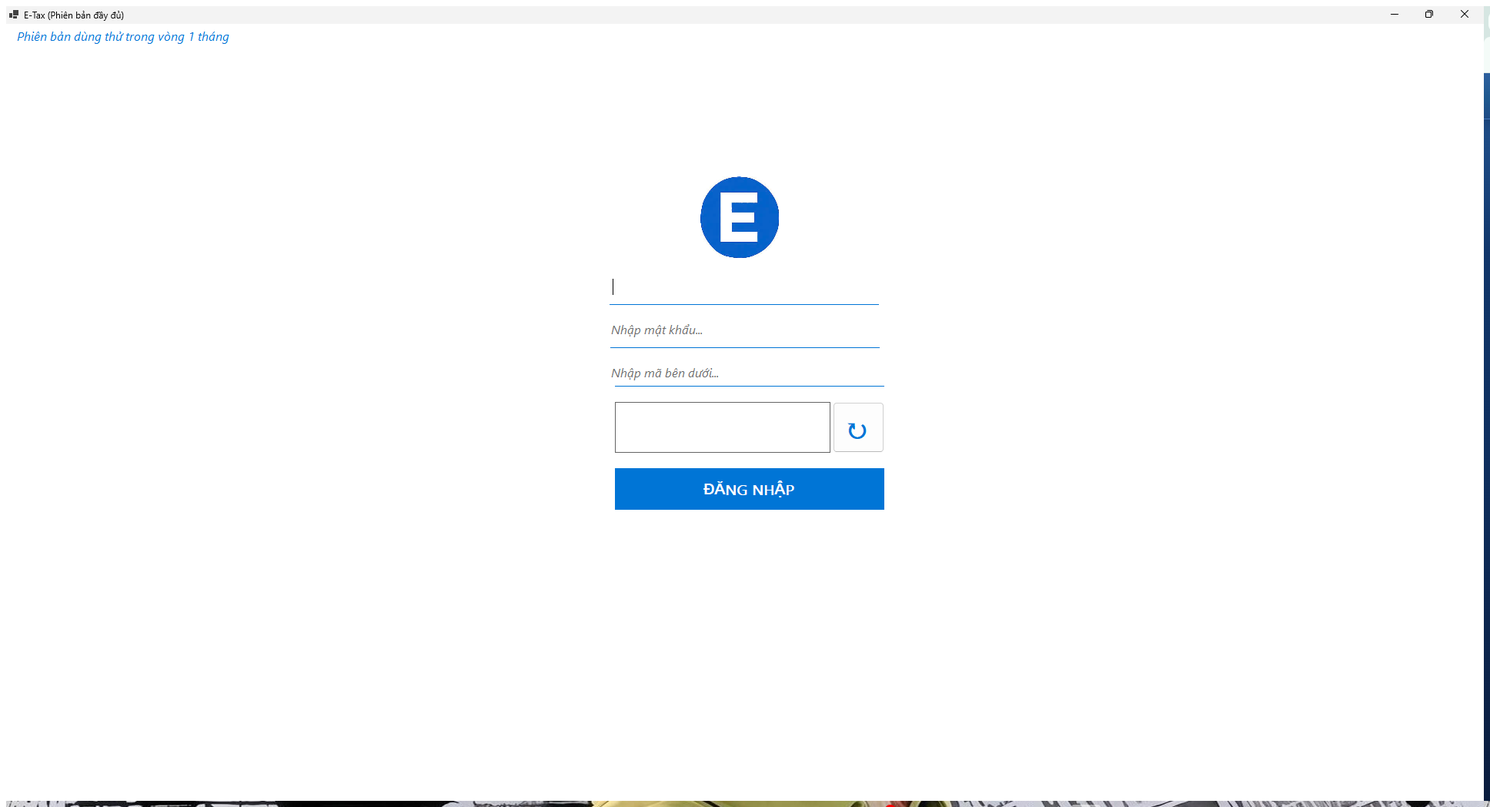
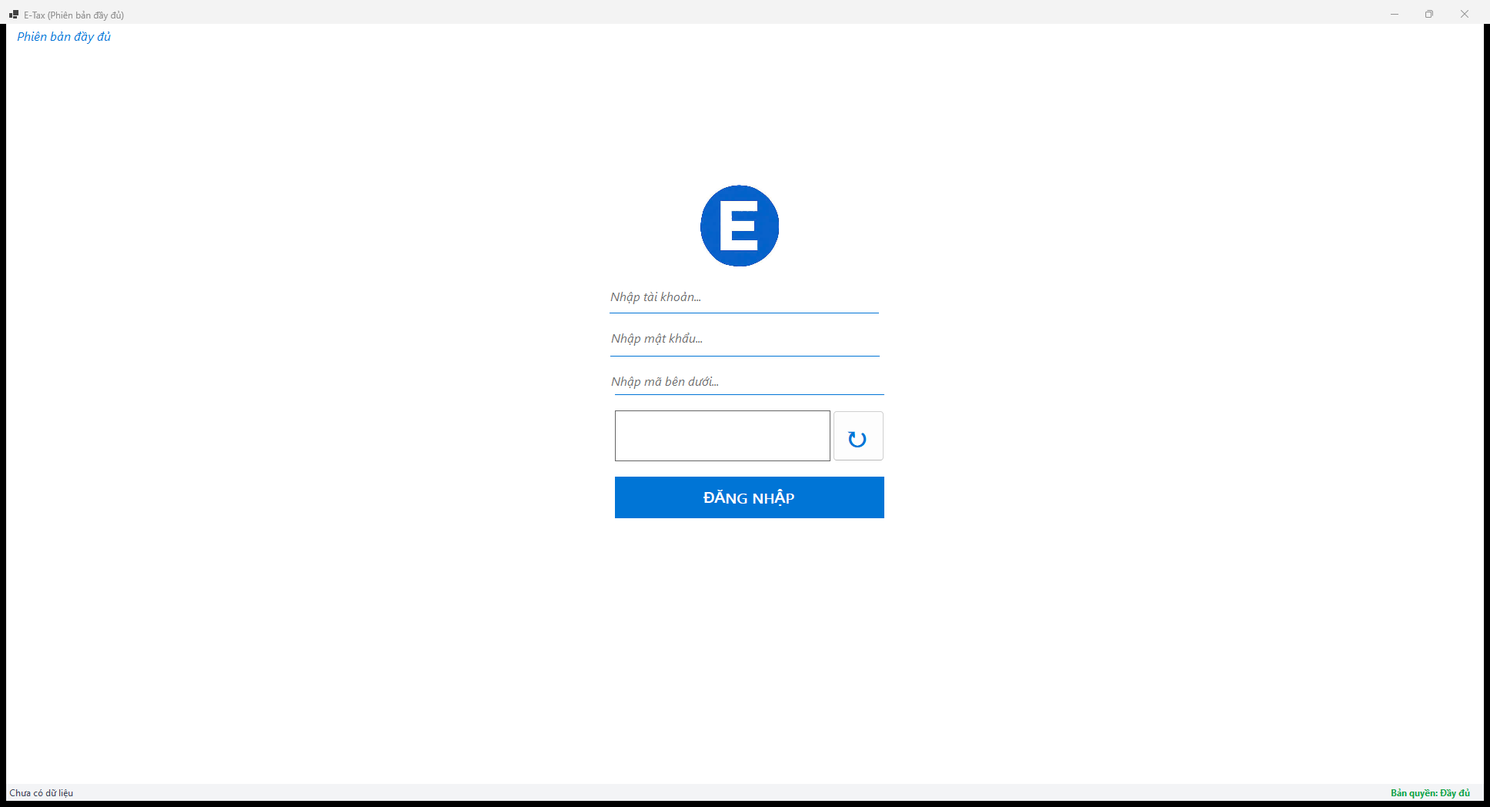
fix(ui): cửa sổ vừa màn 1366x768, khôi phục giữ thanh tiêu đề, thanh trạng thái theo bộ lọc; tài liệu — T-001.6

diff --git a/docs/features/giao-dien/hien-dai-hoa/index.html b/docs/features/giao-dien/hien-dai-hoa/index.html
@@ -84,7 +84,7 @@
   <h1>Hiện đại hóa giao diện</h1>
   <div class="meta">
     <span>Module: <code>giao-dien</code></span>
-    <span>Trạng thái: <span class="badge s-doing">🟡 IN_PROGRESS</span></span>
+    <span>Trạng thái: <span class="badge s-done">✅ DONE</span></span>
     <span>Yêu cầu: CR-001 (đang làm)</span>
     <span>Cập nhật: 2026-11-16 13:45</span>
   </div>
@@ -156,7 +156,7 @@
           <tr><td>Nhớ cửa sổ</td><td>Vị trí, kích thước, phóng to lưu ở <code>%AppData%\E-Tax\window.json</code>; ngoài màn hình → về giữa</td><td><span class="badge s-done">✅ DONE</span></td></tr>
           <tr><td>Bảng hiện đại</td><td><code>UiTheme.StyleGrid</code> cho 6 bảng: tiêu đề xanh, dòng 28px, kẻ ngang, chọn xanh nhạt, số căn phải</td><td><span class="badge s-done">✅ DONE</span></td></tr>
           <tr><td>Thanh trạng thái</td><td>Số HĐ + tổng thanh toán theo Bán ra/Mua vào, tài khoản, bản quyền</td><td><span class="badge s-done">✅ DONE</span></td></tr>
-          <tr><td>Chế độ demo (Debug)</td><td><code>ETAX_UI_DEMO=1</code> → màn hình chính với dữ liệu mẫu để chụp ảnh; không có trong Release</td><td><span class="badge s-todo">⬜ TODO</span></td></tr>
+          <tr><td>Chế độ demo (Debug)</td><td><code>ETAX_UI_DEMO=1</code> → màn hình chính với dữ liệu mẫu để chụp ảnh; không có trong Release</td><td><span class="badge s-done">✅ DONE</span></td></tr>
         </tbody>
       </table>
     </div>
@@ -169,7 +169,7 @@
   <section id="progress" hidden>
     <div class="card next">
       <h2>Bước tiếp theo</h2>
-      <p>T-001.6: kiểm thử tổng thể TC-01..07, cập nhật <code>PROJECT_OVERVIEW.md</code>, review.</p>
+      <p>CR-001 hoàn thành. Chờ người dùng chọn cách tích hợp nhánh <code>feature/giao-dien-hien-dai</code>.</p>
     </div>
     <div class="card">
       <h2>CR-001 — Nhóm 1: cửa sổ co giãn, bảng hiện đại, thanh trạng thái</h2>
@@ -181,7 +181,7 @@
           <tr><td>T-001.3</td><td>Style bảng hiện đại (UiTheme)</td><td><span class="badge s-done">✅ DONE</span></td><td>xUnit + ảnh TC-05</td></tr>
           <tr><td>T-001.4</td><td>Thanh trạng thái</td><td><span class="badge s-done">✅ DONE</span></td><td>xUnit + ảnh TC-06</td></tr>
           <tr><td>T-001.5</td><td>Chế độ demo chỉ Debug</td><td><span class="badge s-done">✅ DONE</span></td><td>Chạy demo; Release không chứa</td></tr>
-          <tr><td>T-001.6</td><td>Kiểm thử tổng thể + tài liệu</td><td><span class="badge s-todo">⬜ TODO</span></td><td>TC-01..07</td></tr>
+          <tr><td>T-001.6</td><td>Kiểm thử tổng thể + tài liệu</td><td><span class="badge s-done">✅ DONE</span></td><td>TC-01..07</td></tr>
         </tbody>
       </table>
     </div>

diff --git a/E-Tax/WindowSettings.cs b/E-Tax/WindowSettings.cs
@@ -1,4 +1,4 @@
-using System.Drawing;
+using System.Drawing;
 using System.Text.Json;
 
 namespace E_Tax
@@ -35,15 +35,30 @@ namespace E_Tax
         }
 
         /// <summary>
-        /// Vùng cửa sổ để khôi phục (không nhỏ hơn minimum), hoặc null nếu không giao với màn hình nào
-        /// (vd: màn hình phụ đã rút) — khi đó để cửa sổ mở giữa màn hình chính.
+        /// Kích thước tối thiểu không vượt vùng làm việc của màn hình (vd laptop 1366x768).
+        /// </summary>
+        public static Size ClampMinimum(Size design, Rectangle workingArea) =>
+            new(Math.Min(design.Width, workingArea.Width), Math.Min(design.Height, workingArea.Height));
+
+        /// <summary>
+        /// Vùng cửa sổ để khôi phục (không nhỏ hơn minimum, không lớn hơn màn hình chứa nó), hoặc null nếu
+        /// thanh tiêu đề không nằm trên màn hình nào (vd: màn hình phụ đã rút) — khi đó để cửa sổ mở giữa màn hình chính.
         /// </summary>
         public static Rectangle? Fit(WindowSettings settings, IReadOnlyList<Rectangle> workingAreas, Size minimum)
         {
-            var bounds = new Rectangle(settings.X, settings.Y,
-                Math.Max(settings.Width, minimum.Width), Math.Max(settings.Height, minimum.Height));
+            int width = Math.Max(settings.Width, minimum.Width);
+            int height = Math.Max(settings.Height, minimum.Height);
 
-            return workingAreas.Any(area => area.IntersectsWith(bounds)) ? bounds : null;
+            // Thanh tiêu đề phải thấy được thì mới kéo cửa sổ bằng chuột được
+            var titleBar = new Rectangle(settings.X, settings.Y, width, TitleBarHeight);
+            foreach (var area in workingAreas)
+            {
+                if (area.IntersectsWith(titleBar))
+                    return new Rectangle(settings.X, settings.Y, Math.Min(width, area.Width), Math.Min(height, area.Height));
+            }
+            return null;
         }
+
+        private const int TitleBarHeight = 30;
     }
 }

diff --git a/E-Tax/Form1.cs b/E-Tax/Form1.cs
@@ -72,7 +72,7 @@ namespace E_Tax
             panelSearch.Visible = false;
 
             // Kích thước thiết kế là kích thước tối thiểu; khôi phục vị trí lần trước trước khi form hiện
-            MinimumSize = Size;
+            MinimumSize = WindowSettings.ClampMinimum(Size, Screen.FromControl(this).WorkingArea);
             RestoreWindowBounds();
             Resize += (_, _) => CenterLoginPanel();
             FormClosing += (_, _) => SaveWindowBounds();
@@ -922,9 +922,13 @@ namespace E_Tax
             }
         }
 
-        private void UpdateInvoiceSummary()
+        /// <summary>
+        /// Thanh trạng thái theo danh sách đang hiển thị (mặc định toàn bộ kết quả; khi lọc MST thì theo kết quả lọc).
+        /// </summary>
+        private void UpdateInvoiceSummary(IReadOnlyCollection<SearchResult>? shown = null)
         {
-            lblStatusInvoices.Text = InvoiceSummary.Compute(_latestResults).Format();
+            string text = InvoiceSummary.Compute(shown ?? _latestResults).Format();
+            lblStatusInvoices.Text = shown == null ? text : $"Lọc {shown.Count}/{_latestResults.Count} HĐ — {text}";
         }
 
         /// <summary>
@@ -973,6 +977,7 @@ namespace E_Tax
                 dgvMain.DataSource = null;
                 dgvMain.DataSource = _latestResults;
                 UpdateGridRowNumbers();
+                UpdateInvoiceSummary();
                 return;
             }
 
@@ -981,6 +986,7 @@ namespace E_Tax
                 .ToList();
 
             dgvMain.DataSource = null;
+            UpdateInvoiceSummary(filteredResults);
             if (filteredResults.Any())
             {
                 dgvMain.DataSource = filteredResults;

diff --git a/E-Tax/Form1.Designer.cs b/E-Tax/Form1.Designer.cs
@@ -233,7 +233,7 @@ namespace E_Tax
             panelLogin.Controls.Add(btnLogin);
             panelLogin.Location = new Point(289, 26);
             panelLogin.Name = "panelLogin";
-            panelLogin.Size = new Size(471, 649);
+            panelLogin.Size = new Size(471, 627);
             panelLogin.TabIndex = 0;
             // 
             // pictureBox1
@@ -389,7 +389,7 @@ namespace E_Tax
             panelSearch.Anchor = AnchorStyles.Top | AnchorStyles.Bottom | AnchorStyles.Left | AnchorStyles.Right;
             panelSearch.Location = new Point(10, 29);
             panelSearch.Name = "panelSearch";
-            panelSearch.Size = new Size(962, 649);
+            panelSearch.Size = new Size(962, 627);
             panelSearch.TabIndex = 1;
             // 
             // mainSplitContainer
@@ -1001,7 +1001,7 @@ namespace E_Tax
             statusBar.BackColor = Color.FromArgb(243, 244, 246);
             statusBar.Font = new Font("Segoe UI", 9F);
             statusBar.Items.AddRange(new ToolStripItem[] { lblStatusInvoices, lblStatusUser, lblStatusLicense });
-            statusBar.Location = new Point(0, 686);
+            statusBar.Location = new Point(0, 664);
             statusBar.Name = "statusBar";
             statusBar.Size = new Size(984, 22);
             statusBar.SizingGrip = true;
@@ -1028,7 +1028,7 @@ namespace E_Tax
             // Form1
             // 
             BackColor = Color.White;
-            ClientSize = new Size(984, 708);
+            ClientSize = new Size(984, 686);
             Controls.Add(statusBar);
             Controls.Add(lblVersion);
             Controls.Add(panelSearch);

diff --git a/E-Tax.Tests/WindowSettingsTests.cs b/E-Tax.Tests/WindowSettingsTests.cs
@@ -1,4 +1,4 @@
-using System.Drawing;
+using System.Drawing;
 using E_Tax;
 
 namespace E_Tax.Tests
@@ -55,6 +55,31 @@ namespace E_Tax.Tests
             var settings = new WindowSettings(100, 50, 400, 300, false);
 
             Assert.Equal(new Rectangle(100, 50, 1000, 725), WindowSettings.Fit(settings, OneScreen, Minimum));
+        }
+
+        [Fact]
+        public void Fit_TitleBarAboveScreen_ReturnsNull()
+        {
+            // Phần thân còn chạm màn hình nhưng thanh tiêu đề ở ngoài → không kéo được cửa sổ
+            var settings = new WindowSettings(100, -600, 1280, 800, false);
+
+            Assert.Null(WindowSettings.Fit(settings, OneScreen, Minimum));
+        }
+
+        [Fact]
+        public void Fit_LargerThanScreen_ShrinksToWorkingArea()
+        {
+            var settings = new WindowSettings(0, 0, 3840, 2100, false);
+
+            Assert.Equal(new Rectangle(0, 0, 1920, 1040), WindowSettings.Fit(settings, OneScreen, Minimum));
+        }
+
+        [Fact]
+        public void ClampMinimum_SmallScreen_FitsWorkingArea()
+        {
+            // Laptop 1366x768: vùng làm việc cao ~728px
+            Assert.Equal(new Size(1000, 728), WindowSettings.ClampMinimum(new Size(1000, 747), new Rectangle(0, 0, 1366, 728)));
+            Assert.Equal(new Size(1000, 725), WindowSettings.ClampMinimum(new Size(1000, 725), new Rectangle(0, 0, 1920, 1040)));
         }
 
         [Fact]

diff --git a/E-Tax/LicenseManager.cs b/E-Tax/LicenseManager.cs
@@ -64,7 +64,6 @@ namespace E_Tax
             }
         }
 
-        /// <summary>Xác thực key; nếu hợp lệ thì lưu vào registry (giá trị <c>LicenseKey</c>).</summary>
         /// <summary>
         /// Ngày hết hạn dùng thử (UTC) đã lưu, hoặc null nếu chưa có / không đọc được.
         /// </summary>
@@ -82,6 +81,7 @@ namespace E_Tax
             return null;
         }
 
+        /// <summary>Xác thực key; nếu hợp lệ thì lưu vào registry (giá trị <c>LicenseKey</c>).</summary>
         public static LicenseKeyResult Activate(string userProvidedKey)
         {
             // Bỏ khoảng trắng/xuống dòng lẫn vào khi dán key

diff --git a/docs/features/giao-dien/hien-dai-hoa/status.md b/docs/features/giao-dien/hien-dai-hoa/status.md
@@ -7,13 +7,13 @@
 
 | Mục | Giá trị |
 |---|---|
-| Trạng thái | 🟡 IN_PROGRESS |
+| Trạng thái | ✅ DONE |
 | Yêu cầu đang làm | CR-001 — Nhóm 1: cửa sổ co giãn, bảng hiện đại, thanh trạng thái |
 | Bước Superpowers | Không áp dụng đủ chuỗi: đây là `change` trên màn hình có sẵn, không thêm màn hình/API/model. Vẫn TDD cho logic. |
-| Task đang làm | T-001.6 |
-| **Bước tiếp theo** | T-001.6: chạy lại TC-01..07 (ảnh chụp bằng `PrintWindow` — không cướp focus), cập nhật `PROJECT_OVERVIEW.md`, review toàn nhánh |
+| Task đang làm | — (CR-001 xong) |
+| **Bước tiếp theo** | Người dùng chọn cách tích hợp nhánh (merge vào `master` / PR / giữ nguyên). Minor hoãn: xem Nhật ký phiên 2026-11-16 16:10 |
 | Branch | `feature/giao-dien-hien-dai` (tách từ `master` @ 29d5a4c) |
-| Cập nhật lần cuối | 2026-11-16 15:30 |
+| Cập nhật lần cuối | 2026-11-16 16:10 |
 | Ghi chú dở dang | (1) ~~thanh tiến độ bị che~~ — đã xác nhận và sửa ở T-001.5. (2) ~~`lblVersion` ghi sai bản quyền~~ — đã sửa ở T-001.4. (3) Nhánh `chore/release-public-key` (public key thật) chưa merge, độc lập với nhánh này. |
 
 ## File chính
@@ -29,7 +29,7 @@
 
 ## Yêu cầu
 
-### CR-001 — Nhóm 1: cửa sổ co giãn, bảng hiện đại, thanh trạng thái · 🟡 IN_PROGRESS · 2026-11-16
+### CR-001 — Nhóm 1: cửa sổ co giãn, bảng hiện đại, thanh trạng thái · ✅ DONE · 2026-11-16
 
 | ID | Task | Trạng thái | Test | Ghi chú |
 |---|---|---|---|---|
@@ -38,12 +38,16 @@
 | T-001.3 | Style bảng hiện đại (UiTheme) | ✅ DONE | xUnit 2 test RED→GREEN, suite 39/39; build 0 lỗi. Ảnh TC-05 dời sang T-001.6 (cần dữ liệu demo của T-001.5) | Ruling: không cố định cột Ký hiệu HĐ/Số HĐ — là cột 5–6, cố định thì kéo theo 4 cột trước (~470px, nửa bề ngang tối thiểu); giữ STT. Ruling: định dạng tiền `#,##0` (thống nhất các bảng khác) thay vì `N0`. Padding ô chỉ ngang 6px (dọc sẽ cắt chữ ở dòng 28px) |
 | T-001.4 | Thanh trạng thái (TDD phần tính) | ✅ DONE | xUnit 4 test RED→GREEN, suite 43/43; build 0 lỗi; TC-06 phần đăng nhập ✅ (ảnh `T-001.4-TC06-dang-nhap.png`); phần có dữ liệu chạy ở T-001.6 bằng demo | Thêm `LicenseManager.GetTrialExpiry()` để hiện "còn N ngày". `lblVersion` sửa theo bản quyền (ghi chú dở dang (2) đã xử lý) |
 | T-001.5 | Chế độ demo chỉ Debug | ✅ DONE | Demo chạy, ảnh `T-001.5-tien-do.png`; Release dll: 0 lần chuỗi `ETAX_UI_DEMO` (Debug: 1) | Thêm `ETAX_UI_DEMO=progress` để kiểm tra thanh tiến độ. Ruling: thanh tiến độ bị `mainSplitContainer` che (lỗi có sẵn) → `BringToFront()` giữ vị trí cũ thay vì chuyển xuống thanh trạng thái, vì `Visible/Value` được đặt ở >10 chỗ và trong `DetailGridManager` — giá nếu sai: thanh tiến độ đè lên vài dòng bảng khi tải. Ruling: `dgvMain` chọn cả dòng (`FullRowSelect`) — TC-05 cần dòng chọn nền xanh; nút In pdf vốn đọc `SelectedRows` nên giờ in được nhiều HĐ đã chọn (trước đây luôn rỗng) — giá nếu sai: không còn chọn/copy từng ô. Cột "Thông tin HĐ" `Fill` để lấp chiều ngang khi phóng to. Demo đặt focus vào bảng (phím lạc từng bấm nhầm nút Ktra → gọi mạng) |
-| T-001.6 | Kiểm thử tổng thể + tài liệu | ⬜ TODO | TC-01..07 | |
+| T-001.6 | Kiểm thử tổng thể + tài liệu + review | ✅ DONE | TC-01..07 ✅ (xem "Kết quả test gần nhất"); suite 46/46 | Review toàn nhánh (subagent Opus): 2 Important + 1 nâng lên Important đã sửa, 5 Minor hoãn (xem Nhật ký phiên) |
 
 ## Kết quả test gần nhất
 
 | Thời gian | Lệnh / kịch bản | Kết quả | Ghi chú |
 |---|---|---|---|
+| 2026-11-16 16:10 | `dotnet build E-Tax.sln`; `dotnet test E-Tax.Tests` | ✅ 0 lỗi; 46/46 | Sau fix review |
+| 2026-11-16 16:10 | App thật (ảnh `PrintWindow`): TC-01, TC-03, TC-04 | ✅ pass | Cửa sổ 1000×725 (vừa laptop 1366×768); kéo 600×400 giữ 1000×725; phóng to; mở lại 150,70 1300×820; mở lại phóng to; lưu 5000,5000 → giữa; lưu Y=-600 (tiêu đề ngoài màn hình) → giữa (1 lần đầu thấy cửa sổ thu nhỏ -32000 — chạy lại 2 lần đều giữa, nghi do thao tác trên máy) |
+| 2026-11-16 16:10 | Demo Debug: TC-02, TC-05, TC-06 + thanh tiến độ | ✅ pass | Ảnh chụp lại sau khi bố cục đổi |
+| 2026-11-16 16:00 | Playwright MCP: TC-07 `index.html` (qua `http.server`) | ✅ pass | 0 lỗi console |
 | 2026-11-16 15:30 | Demo Debug: TC-02, TC-05, TC-06 (có dữ liệu), thanh tiến độ; Release dll | ✅ pass | Ảnh `T-001.6-TC02-phong-to.png`, `T-001.6-TC05-bang.png`, `T-001.5-tien-do.png`; Release 0 chuỗi `ETAX_UI_DEMO` |
 | 2026-11-16 15:00 | `dotnet test E-Tax.Tests` + ảnh màn hình đăng nhập | ✅ 43/43; TC-06 (đăng nhập) pass | "Chưa có dữ liệu", "Bản quyền: Đầy đủ" màu xanh; `lblVersion` = "Phiên bản đầy đủ" |
 | 2026-11-16 14:40 | `dotnet test E-Tax.Tests` | ✅ 39/39 | T-001.3 (`UiThemeTests` 2 test) |
@@ -61,5 +65,15 @@
 - 2026-11-16 14:20 — Xong T-001.2 (build 0 lỗi, TC-01/03/04 đạt bằng script PowerShell ngoài repo).
 - 2026-11-16 14:40 — Xong T-001.3 (UiTheme, áp cho 6 bảng).
 - 2026-11-16 15:00 — Xong T-001.4 (InvoiceSummary + StatusStrip).
+- 2026-11-16 16:10 — Xong T-001.6. Review toàn nhánh (subagent Opus) và sửa trong 1 lượt:
+  - Fixed (Important): cửa sổ cao 747px không vừa laptop 1366×768 (vùng làm việc ~728) và `MinimumSize` khoá không thu nhỏ được → trả `ClientSize` về 984×686 (thanh trạng thái lấy 22px của `panelSearch`/`panelLogin`), `MinimumSize = WindowSettings.ClampMinimum(...)` — test `ClampMinimum_SmallScreen_FitsWorkingArea` RED→GREEN, suite 46/46.
+  - Fixed (Important): khôi phục cửa sổ có thanh tiêu đề ngoài màn hình / lớn hơn màn hình → `Fit` đòi thanh tiêu đề (30px) nằm trên một màn hình và thu kích thước về vùng làm việc — `Fit_TitleBarAboveScreen_ReturnsNull`, `Fit_LargerThanScreen_ShrinksToWorkingArea` RED→GREEN.
+  - Fixed (nâng từ Minor lên Important — số tiền trên thanh trạng thái lệch với bảng khi lọc MST): `UpdateInvoiceSummary(filteredResults)` hiện "Lọc x/y HĐ — …", bỏ lọc thì tính lại. Ruling: không có unit test cho phần nối UI (logic `InvoiceSummary` đã test); chỉ kiểm bằng build — giá nếu sai: chữ thanh trạng thái khi lọc hiển thị sai.
+  - Fixed: chú thích `<summary>` của `Activate` bị chèn lệch khi thêm `GetTrialExpiry` (lỗi do chính task T-001.4).
+  - Minor (deferred): `lblVersion` khi hết hạn vẫn ghi "dùng thử trong vòng 1 tháng".
+  - Minor (deferred): Xuất chi tiết khi chọn nhiều dòng âm thầm lấy `CurrentRow` — nên báo "chọn đúng một hóa đơn".
+  - Minor (deferred): `CenterLoginPanel` căn theo cả vùng có thanh trạng thái (lệch ~11px).
+  - Minor (deferred): đóng app khi đang thu nhỏ từ phóng to → lần sau mở không phóng to.
+  - Minor (deferred): build có cảnh báo nullable có sẵn (vd Form1.cs CS8600).
 - 2026-11-16 15:30 — Xong T-001.5. Người dùng đang dùng máy khi chụp → `CopyFromScreen` chụp nhầm cửa sổ khác và một phím lạc bấm nút Ktra; đổi script chụp sang `PrintWindow` (không `SetForegroundWindow`).
   - Ruling: coi là `change` (không đủ chuỗi Superpowers) vì không thêm màn hình/API/model.

diff --git a/PROJECT_OVERVIEW.md b/PROJECT_OVERVIEW.md
@@ -40,7 +40,10 @@ E-Tax/
 ├── GdtApi.cs                  # Hằng URL/User-Agent; CreateRequest(...) set header chung; BuildDetailUrl(...)
 ├── InvoiceJson.cs             # JSON chi tiết HĐ: Options, DetailExportColumns (20 cột Excel), FindProductArray (hdhhdvu), BuildDetailRows
 ├── ExcelExporter.cs            # ClosedXML: ExportSearchResults (DS 16 cột), ExportDetailSummary (chi tiết tổng hợp), ExportSingleInvoiceDetail (1 HĐ) — chỉ ghi file
-├── GridColumnHelper.cs        # Style + tạo cột text/số cho DataGridView cấu hình bằng code
+├── GridColumnHelper.cs        # Tạo cột text/số cho DataGridView cấu hình bằng code; ApplyDefaultStyle → UiTheme.StyleGrid
+├── UiTheme.cs                 # Bảng màu (Accent #0075D6, ...) + StyleGrid(dgv): tiêu đề xanh 34px, dòng 28px, kẻ ngang
+├── WindowSettings.cs          # Nhớ vị trí/kích thước/phóng to cửa sổ (%AppData%/E-Tax/window.json); Fit() kéo về màn hình
+├── InvoiceSummary.cs          # Số HĐ + tổng thanh toán theo Bán ra/Mua vào → chữ trên thanh trạng thái
 ├── Logger.cs                  # Ghi log ra file theo ngày (%LocalAppData%/E-Tax/logs)
 ├── NotesStore.cs              # Ghi chú theo Id HĐ (%AppData%/E-Tax/notes.json)
 ├── PdfConverter.cs            # HTML → PDF (PuppeteerSharp), 1 trình duyệt cho cả lô
@@ -52,7 +55,7 @@ E-Tax/
 ├── TraCuuForm.cs              # Popup hiển thị mã tra cứu + link tra cứu NCC hóa đơn + thông tin người bán
 └── Properties/Resources.*     # Resource mặc định
 tools/E-Tax.KeyGen/            # Console net8.0 cấp key (init/issue); link E-Tax/LicenseKey.cs
-E-Tax.Tests/                   # xUnit: NotesStoreTests, InvoiceDetailServiceTests (+ FakeHttpHandler), AppSettingsTests, LicenseKeyTests, ExcelExporterTests
+E-Tax.Tests/                   # xUnit: NotesStoreTests, InvoiceDetailServiceTests (+ FakeHttpHandler), AppSettingsTests, LicenseKeyTests, ExcelExporterTests, WindowSettingsTests, UiThemeTests, InvoiceSummaryTests
 ```
 
 Các `#region` trong `Form1.cs`: Đăng nhập & bản quyền · Gọi API hóa đơn · Excel & PDF · Tìm kiếm & lọc ·
@@ -161,6 +164,10 @@ Input: `dtpFromDate`, `dtpToDate`, radio `rbSold` / `rbBought` / `rbAllInvoices`
 - `GetSelectedInvoiceWithKeys(row, msg)` — lấy HĐ từ dòng lưới và kiểm tra đủ khóa, tự hiện thông báo nếu không hợp lệ.
 - `ShowStatusMessage` + `statusTimer` (2s) — thông báo tạm trên `lblStatusMessage`.
 - `DataGridView_DataError` — nuốt lỗi binding của mọi lưới.
+- Cửa sổ co giãn (`Sizable`, tối thiểu = kích thước thiết kế): `RestoreWindowBounds`/`SaveWindowBounds` (`#region Cửa sổ`), `CenterLoginPanel` khi Resize.
+- Thanh trạng thái `statusBar`: `lblStatusInvoices` (`UpdateInvoiceSummary`, gọi trong `BindMainGrid` và khi bắt đầu tìm), `lblStatusUser` (đăng nhập), `lblStatusLicense` + `lblVersion` (`ShowLicenseStatus` trong `CheckForLicense`).
+- `dgvMain` chọn cả dòng (`FullRowSelect`) → In pdf in tất cả dòng đang chọn. Style/định dạng tiền ở `StyleMainGrid`.
+- **Chế độ demo (chỉ Debug):** đặt biến môi trường `ETAX_UI_DEMO=1` (hoặc `progress` để hiện thanh tiến độ) → bỏ đăng nhập, nạp 60 HĐ mẫu (`ShowDemoData`), không gọi API. Dùng để chụp màn hình; không có trong Release.
 - Quy ước lỗi: các hàm gọi API trả về **chuỗi bắt đầu bằng `"❌"`** khi lỗi thay vì throw → nơi gọi kiểm `StartsWith("❌")`.
 
 ## 6. Đánh giá
@@ -210,3 +217,5 @@ Input: `dtpFromDate`, `dtpToDate`, radio `rbSold` / `rbBought` / `rbAllInvoices`
 - Thêm NCC tra cứu: `BuildTraCuuLink` (switch theo `ngcnhat` lowercase).
 - Đổi điều kiện lọc HĐ mua vào: `BuildSearchQuery` (`;ttxly==5`).
 - Gọi API mới: dùng `GdtApi.CreateRequest`; hằng URL đặt trong `GdtApi`.
+- Màu/style giao diện: lấy từ `UiTheme` (không hard-code màu mới). Lưới mới cấu hình bằng code → `GridColumnHelper.ApplyDefaultStyle`; lưới tạo trong Designer → gọi `UiTheme.StyleGrid`.
+- Thêm control vào `panelSearch`: `mainSplitContainer` (Dock Fill) đứng trên cùng z-order — control nổi phải `BringToFront()`.

diff --git a/docs/features/giao-dien/hien-dai-hoa/design.md b/docs/features/giao-dien/hien-dai-hoa/design.md
@@ -84,4 +84,8 @@ Prototype: `index.html`, tab "Giao diện".
 | T-001.5 | `E-Tax/Form1.cs:L101-L109` `Form1_Load`, `:L112-L158` `ShowDemoData` (`#if DEBUG`) | `ETAX_UI_DEMO=1` → 60 HĐ mẫu (30 bán/30 mua), bỏ đăng nhập, focus bảng; `=progress` → hiện thêm thanh tiến độ 24/60 | Chụp màn hình chính không cần cổng thuế; không có trong Release |
 | T-001.5 | `E-Tax/Form1.cs:L68-L69` | `downloadProgressBar`/`lblDownloadStatus.BringToFront()` | Sửa lỗi có sẵn: bị `mainSplitContainer` che |
 | T-001.5 | `E-Tax/Form1.cs:L166-L168` `StyleMainGrid` | `FullRowSelect`; `colDgvThongTinHD` `Fill`, tối thiểu 200 | Dòng chọn nổi bật; lấp chiều ngang khi phóng to |
+| T-001.6 | `E-Tax/WindowSettings.cs` `ClampMinimum`, `Fit` | Tối thiểu ≤ vùng làm việc; `Fit` đòi thanh tiêu đề 30px trên màn hình, thu kích thước về vùng làm việc | Fix review: laptop 1366×768, cửa sổ mất thanh tiêu đề |
+| T-001.6 | `E-Tax/Form1.Designer.cs` | `ClientSize` 984×686 (như cũ); `panelSearch`/`panelLogin` cao 649 → 627; `statusBar` y=664 | Cửa sổ 1000×725 |
+| T-001.6 | `E-Tax/Form1.cs:L75` | `MinimumSize = WindowSettings.ClampMinimum(Size, Screen.FromControl(this).WorkingArea)` | |
+| T-001.6 | `E-Tax/Form1.cs:L928`, `:L989` | `UpdateInvoiceSummary(shown)` — khi lọc MST hiện "Lọc x/y HĐ — …" | Thanh trạng thái khớp bảng |
 | T-001.2 | `E-Tax/Form1.cs:L99-L137` `#region Cửa sổ` | `RestoreWindowBounds`, `SaveWindowBounds` (lưu `RestoreBounds` khi phóng to), `CenterLoginPanel` (Top ≥ `lblVersion.Bottom`) | |

diff --git a/docs/features/README.md b/docs/features/README.md
@@ -7,4 +7,4 @@ Trạng thái: 🟡 IN_PROGRESS · ✅ DONE · ⏸ PAUSED · 🔴 BLOCKED
 
 | Chức năng | Folder | Trạng thái | Yêu cầu đang làm | Cập nhật |
 |---|---|---|---|---|
-| Hiện đại hóa giao diện | [giao-dien/hien-dai-hoa](giao-dien/hien-dai-hoa/status.md) | 🟡 IN_PROGRESS | CR-001 — Nhóm 1: cửa sổ co giãn, bảng hiện đại, thanh trạng thái (chờ duyệt kế hoạch) | 2026-11-16 13:40 |
+| Hiện đại hóa giao diện | [giao-dien/hien-dai-hoa](giao-dien/hien-dai-hoa/status.md) | ✅ DONE | CR-001 — Nhóm 1: cửa sổ co giãn, bảng hiện đại, thanh trạng thái | 2026-11-16 16:10 |
